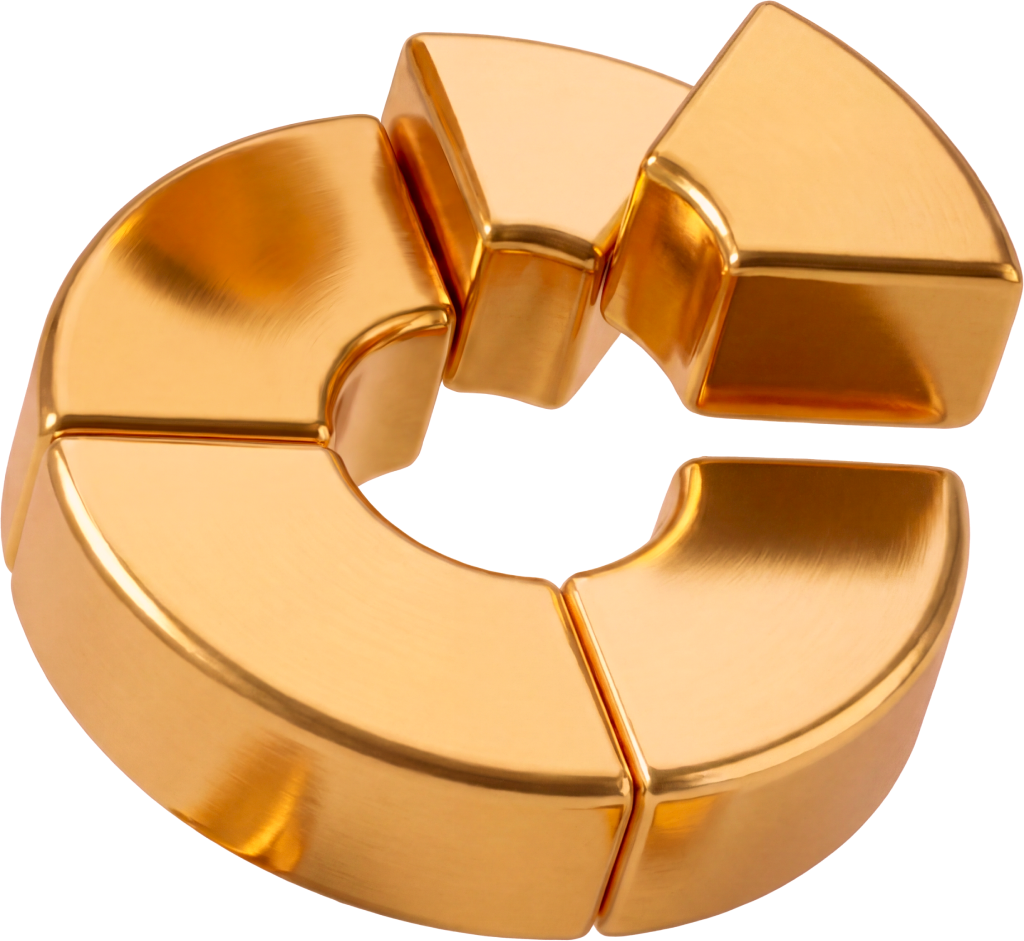
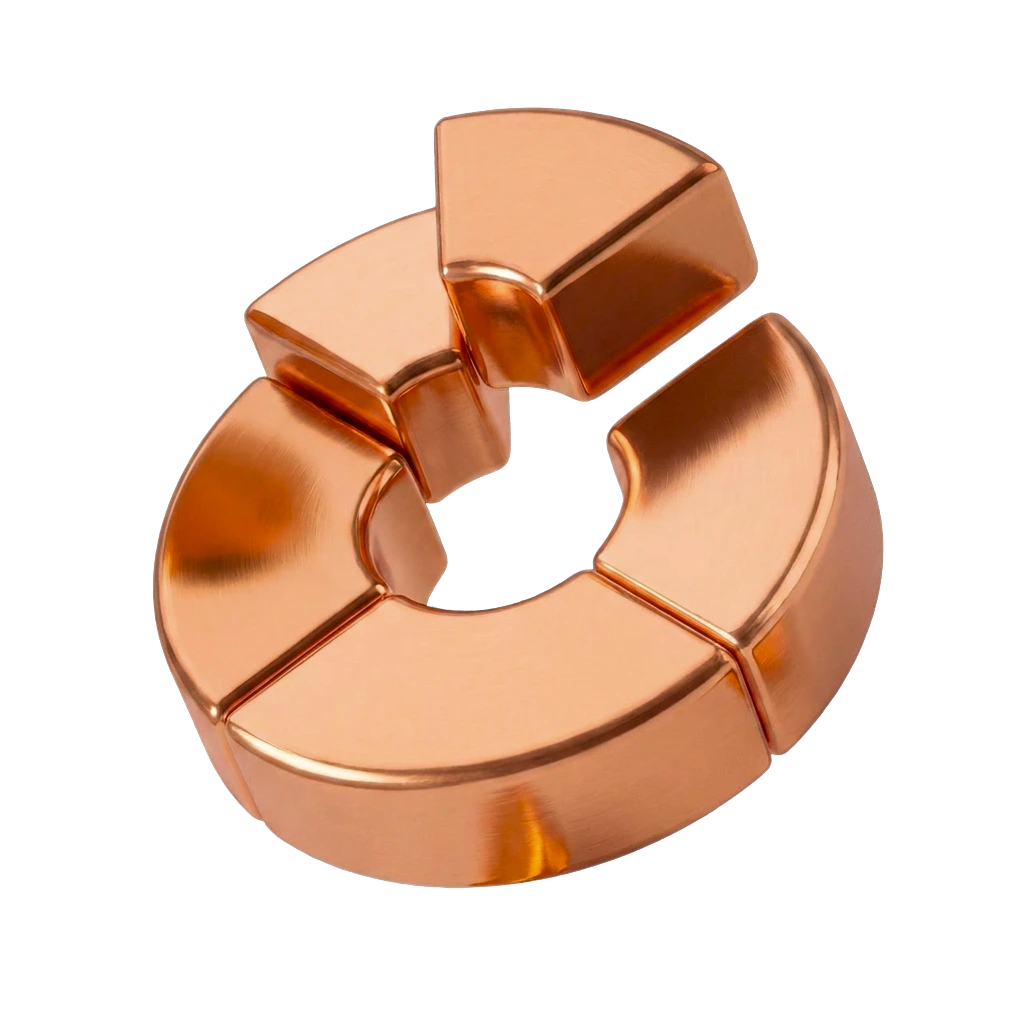
Polish CTA image, badge gradient, and slider knob
- Update FinalCTA gold image to match Figma (straight square, no rotation)
- Set pricing comparison badge gradient
- Fix retirement calculator slider fill to wrap the knob per design

diff --git a/src/app/components/PricingComparison.tsx b/src/app/components/PricingComparison.tsx
@@ -12,7 +12,7 @@ import imgBgLine from "../../assets/sections/pricing-bg-line.svg";
 const goldGradient =
   "linear-gradient(-74.05921901423724deg, rgb(254, 227, 198) 8.0089%, rgb(253, 245, 242) 64.109%, rgb(148, 95, 59) 144.26%)";
 const goldBadgeGradient =
-  "linear-gradient(-76.88304305369729deg, rgb(254, 227, 198) 8.0089%, rgb(253, 245, 242) 64.109%, rgb(148, 95, 59) 144.26%)";
+  "linear-gradient(90deg, rgba(184, 140, 107, 1) 0%, rgba(239, 208, 178, 1) 100%)";
 const sectionGradient =
   "linear-gradient(170.87865376753098deg, rgb(26, 17, 10) 9.2971%, rgb(210, 173, 141) 130.78%)";
 
@@ -49,12 +49,8 @@ export default function PricingComparison() {
                 <div className="content-stretch flex gap-[15px] items-center relative rounded-[20px] shrink-0 w-full" data-node-id="859:11430">
                   <div className="content-stretch flex flex-[1_0_0] gap-[12px] items-center min-w-px relative">
                     <div className="bg-[#1a110a] overflow-clip relative rounded-[12px] shrink-0 size-[40px]">
-                      <div className="absolute flex inset-[42.78%_7.5%_42.77%_7.5%] items-center justify-center" style={{ containerType: "size" }}>
-                        <div className="-rotate-180 -scale-x-100 flex-none h-[100cqh] w-[100cqw]">
-                          <div className="relative size-full">
-                            <img alt="" className="absolute block inset-0 max-w-none size-full" src={imgLogoCusp} />
-                          </div>
-                        </div>
+                      <div className="-translate-y-1/2 absolute h-[5.078px] left-[7.51%] right-[7.52%] top-1/2">
+                        <img alt="" className="absolute block inset-0 max-w-none size-full" src={imgLogoCusp} />
                       </div>
                     </div>
                     <div className="[word-break:break-word] content-stretch flex flex-col gap-[2px] items-start justify-center not-italic relative shrink-0 text-[rgba(255,255,255,0.9)] w-[177px]">

diff --git a/src/app/components/FinalCTA.tsx b/src/app/components/FinalCTA.tsx
@@ -29,12 +29,8 @@ export default function FinalCTA() {
           </div>
         </div>
         <div className="content-stretch flex flex-[1_0_0] flex-col h-[461px] items-start justify-between min-w-px overflow-clip px-[44px] py-[32px] relative rounded-[32px]" data-node-id="959:22471" style={{ backgroundImage: "linear-gradient(185.18786936400352deg, rgb(221, 116, 15) 11.523%, rgb(249, 245, 240) 181.22%), linear-gradient(90deg, rgb(251, 237, 222) 0%, rgb(251, 237, 222) 100%)" }}>
-          <div className="absolute flex h-[577.299px] items-center justify-center left-[135.55px] top-[48.7px] w-[582.766px]">
-            <div className="flex-none rotate-[-38.65deg]">
-              <div className="h-[395.198px] relative w-[430.155px]" data-node-id="963:22500" data-name="Слой 5 1">
-                <img alt="" className="absolute inset-0 max-w-none object-cover pointer-events-none size-full" src={imgGold} loading="lazy" decoding="async" />
-              </div>
-            </div>
+          <div className="absolute h-[582.766px] left-[135.55px] top-[39.53px] w-[582.766px]" data-node-id="1193:6498" data-name="image 583370">
+            <img alt="" className="absolute inset-0 max-w-none object-cover pointer-events-none size-full" src={imgGold} loading="lazy" decoding="async" />
           </div>
           <p className="[word-break:break-word] font-aeonik font-normal leading-[32.765px] not-italic relative shrink-0 text-[31px] text-white w-[221px]" data-node-id="959:22473">
             Learn how we structure CUSP Personalised Portfolios

diff --git a/src/app/components/RetirementCalculator.tsx b/src/app/components/RetirementCalculator.tsx
@@ -28,8 +28,10 @@ function Slider({ value, min, max, step, onChange, ariaLabel }: SliderProps) {
   const draggingRef = useRef(false);
 
   const pct = max > min ? Math.min(1, Math.max(0, (value - min) / (max - min))) : 0;
-  // Keep the knob (and the leading edge of the fill) inside the track at the extremes.
-  const fillExpr = `calc(${pct} * (100% - ${KNOB_W}px) + ${KNOB_W / 2}px)`;
+  // Keep the knob inside the track at the extremes.
+  const knobCenter = `calc(${pct} * (100% - ${KNOB_W}px) + ${KNOB_W / 2}px)`;
+  // The fill's rounded cap wraps around the knob, so it extends to the knob's trailing edge.
+  const fillExpr = `calc(${pct} * (100% - ${KNOB_W}px) + ${KNOB_W}px)`;
 
   const updateFromClientX = (clientX: number) => {
     const el = trackRef.current;
@@ -97,7 +99,7 @@ function Slider({ value, min, max, step, onChange, ariaLabel }: SliderProps) {
       <div
         aria-hidden
         className="-translate-x-1/2 -translate-y-1/2 absolute h-[26px] pointer-events-none top-1/2 w-[27px]"
-        style={{ left: fillExpr }}
+        style={{ left: knobCenter }}
       >
         <img alt="" className="absolute block inset-0 max-w-none size-full" src={imgKnob} />
       </div>